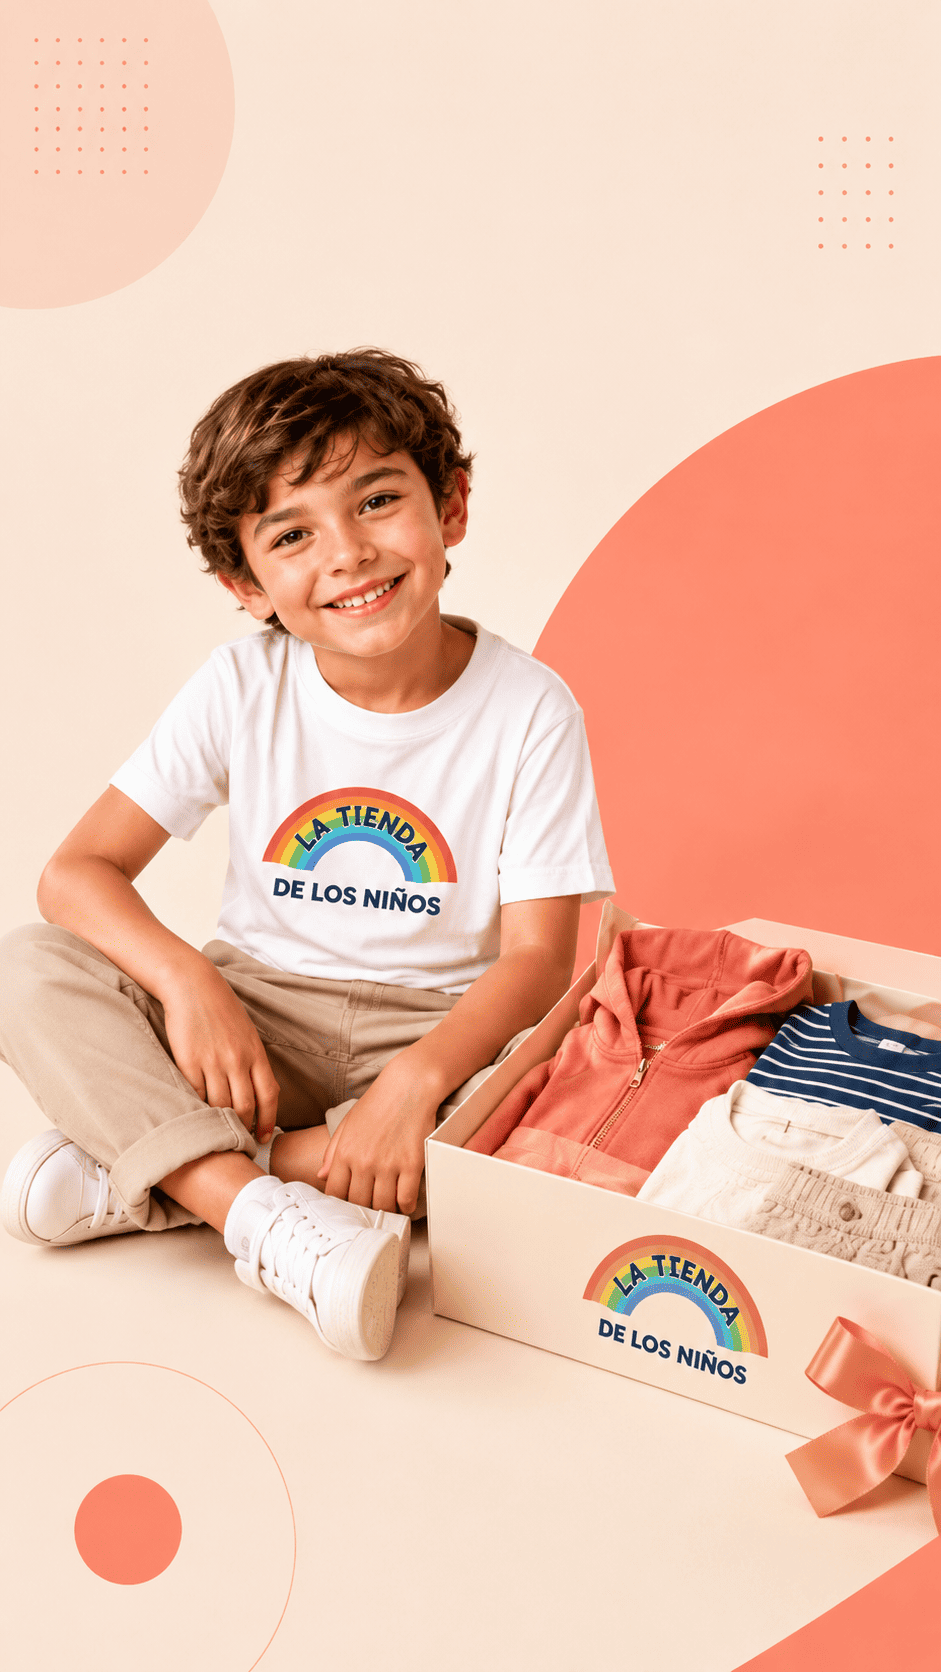
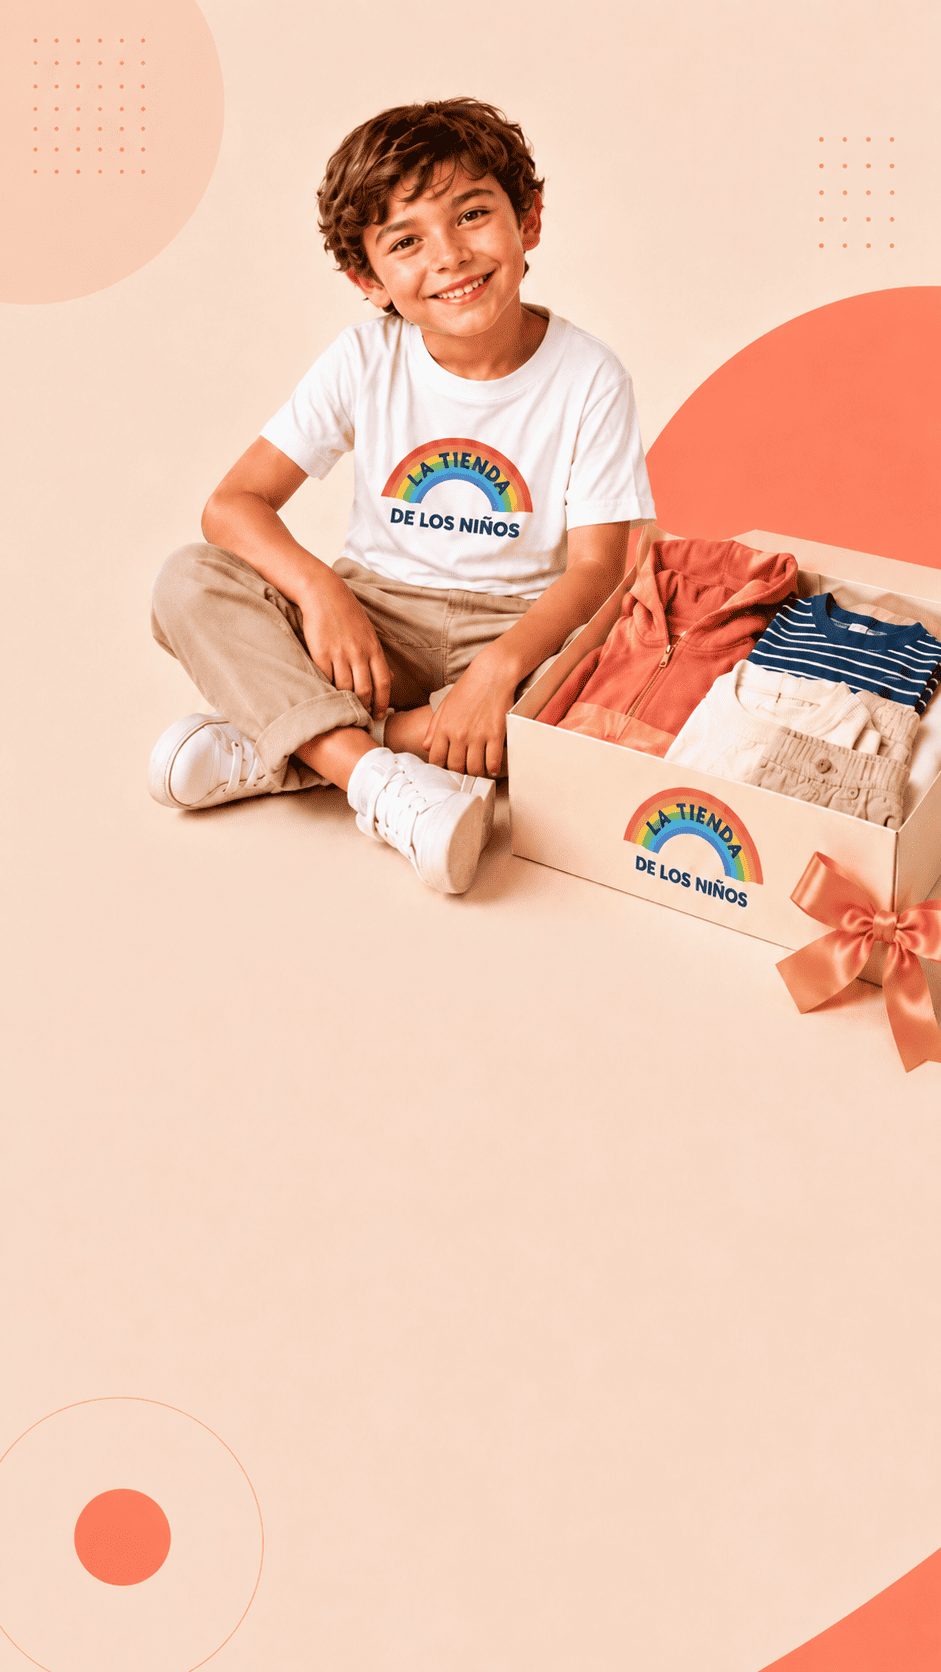
coherencia en imagenes hero mobile terminado cambio en textos

diff --git a/resources/js/Components/Storefront/PriceRangeSection.jsx b/resources/js/Components/Storefront/PriceRangeSection.jsx
@@ -1,10 +1,14 @@
 import { Link } from '@inertiajs/react';
 
 const ENTREPRENEUR_COMBO = {
-    label: 'Combos para emprendedores',
-    title: 'Pensado para emprendedores y revendedores',
-    sub: 'Una propuesta de mayor valor, con mejor presentacion y mas presencia para ofrecer en tu negocio.',
+    title: 'Pensando para que comiences',
+    body: [
+        '¿Sos emprendedor? ¿Revendes? Nosotros te ayudamos con combos listos para que puedas dar tus primeros pasos de forma simple.',
+        'Pensamos estos combos para que te animes a comenzar, con prendas seleccionadas especialmente para que puedas venderlas y obtener un buen margen de ganancia.',
+        'Si estás buscando una opción práctica, rentable y lista para empezar, este es el combo ideal para vos.',
+    ],
     href: '/catalogo?tipo=combos&precio_min=100000',
+    mobileImage: '/images/combo-emprendedor-mobile.png',
     image: '/images/combo-emprendedor.png',
 };
 
@@ -15,7 +19,7 @@ export default function PriceRangeSection() {
                 <div className="relative px-2 py-2 sm:px-3 lg:px-4">
 
                     <h2 className="home-section-title relative z-10 text-left">
-                        PENSADO PARA EMPRENDEDORES
+                        COMBOS PARA EMPRENDEDORES
                     </h2>
 
                     <div className="relative z-10 mt-8">
@@ -24,36 +28,41 @@ export default function PriceRangeSection() {
                             className="group flex w-full flex-col overflow-hidden transition duration-300 hover:-translate-y-1.5"
                         >
                             <div className="store-card relative min-h-[360px] overflow-hidden sm:min-h-[440px] lg:min-h-[520px]">
-                                <img
-                                    src={ENTREPRENEUR_COMBO.image}
-                                    alt={ENTREPRENEUR_COMBO.label}
-                                    className="absolute inset-0 h-full w-full object-cover object-center transition-transform duration-500 group-hover:scale-105"
-                                />
-                                <div className="absolute inset-0 bg-[linear-gradient(90deg,rgba(248,246,243,0.95),rgba(248,246,243,0.76)_42%,rgba(248,246,243,0.08))]" />
-                                <div className="absolute inset-0 bg-gradient-to-t from-brand-text/10 via-transparent to-white/10" />
+                                <picture>
+                                    <source media="(max-width: 639px)" srcSet={ENTREPRENEUR_COMBO.mobileImage} />
+                                    <img
+                                        src={ENTREPRENEUR_COMBO.image}
+                                        alt={ENTREPRENEUR_COMBO.title}
+                                        className="absolute inset-0 h-full w-full object-cover object-center transition-transform duration-500 group-hover:scale-105"
+                                    />
+                                </picture>
+                                <div className="absolute inset-0 bg-[linear-gradient(90deg,rgba(248,246,243,0.72),rgba(248,246,243,0.44)_42%,rgba(248,246,243,0.015))]" />
+                                <div className="absolute inset-0 bg-gradient-to-t from-brand-text/6 via-transparent to-white/3" />
 
                                 <div className="relative z-10 flex h-full max-w-2xl flex-col justify-center px-6 py-8 sm:px-8 lg:px-12">
-                                    <div className="flex h-14 w-14 items-center justify-center text-brand-cta">
-                                        <svg className="h-11 w-11" fill="none" viewBox="0 0 24 24" stroke="currentColor" aria-hidden="true">
-                                            <path strokeLinecap="round" strokeLinejoin="round" strokeWidth={1.8} d="M4 19h16M6 16V9m4 7V5m4 11v-8m4 8v-4" />
-                                            <path strokeLinecap="round" strokeLinejoin="round" strokeWidth={1.8} d="M7 7l3-3 3 2 4-3" />
-                                        </svg>
+                                    <div className="flex items-center gap-3 sm:flex-col sm:items-start sm:gap-0">
+                                        <div className="flex h-10 w-10 shrink-0 items-center justify-center text-brand-cta sm:h-14 sm:w-14">
+                                            <svg className="h-7 w-7 sm:h-11 sm:w-11" fill="none" viewBox="0 0 24 24" stroke="currentColor" aria-hidden="true">
+                                                <path strokeLinecap="round" strokeLinejoin="round" strokeWidth={1.8} d="M3 8.5L12 4l9 4.5M3 8.5l9 5m-9-5V16l9 4.5M12 13.5l9-5M12 13.5V20.5M21 8.5V16L12 20.5" />
+                                                <path strokeLinecap="round" strokeLinejoin="round" strokeWidth={1.8} d="M7.5 6.25L12 8.5l4.5-2.25" />
+                                            </svg>
+                                        </div>
+
+                                        <p className="home-section-title max-w-xl text-left sm:mt-5">
+                                            {ENTREPRENEUR_COMBO.title}
+                                        </p>
                                     </div>
 
-                                    <p className="mt-5 text-[11px] font-bold uppercase tracking-[0.24em] text-brand-cta">
-                                        {ENTREPRENEUR_COMBO.label}
-                                    </p>
-                                    <p className="mt-3 max-w-xl text-xl font-extrabold leading-tight text-brand-text sm:text-3xl lg:text-[2.45rem]">
-                                        {ENTREPRENEUR_COMBO.title}
-                                    </p>
-                                    <p className="mt-4 max-w-lg text-sm leading-relaxed text-brand-text-muted sm:text-base">
-                                        {ENTREPRENEUR_COMBO.sub}
-                                    </p>
+                                    <div className="mt-4 max-w-xl space-y-4 text-sm leading-relaxed text-brand-text-muted sm:text-base">
+                                        {ENTREPRENEUR_COMBO.body.map((paragraph) => (
+                                            <p key={paragraph}>{paragraph}</p>
+                                        ))}
+                                    </div>
 
-                                    <span className="mt-6 inline-flex items-center gap-1 text-xs font-semibold uppercase tracking-[0.14em] text-brand-cta">
+                                    <span className="home-button mt-6 inline-flex self-start items-center gap-2 bg-brand-cta px-4 py-3 text-sm font-bold uppercase tracking-[0.14em] text-white shadow-md transition-colors group-hover:bg-brand-cta-dark sm:px-5 sm:text-base">
                                         Ver catalogo
-                                        <svg className="h-3.5 w-3.5 transition-transform group-hover:translate-x-1" fill="none" viewBox="0 0 24 24" stroke="currentColor">
-                                            <path strokeLinecap="round" strokeLinejoin="round" strokeWidth={2} d="M5 12h14m0 0l-6-6m6 6l-6 6" />
+                                        <svg className="h-4 w-4 transition-transform group-hover:translate-x-0.5" fill="none" viewBox="0 0 24 24" stroke="currentColor" strokeWidth={2.5}>
+                                            <path strokeLinecap="round" strokeLinejoin="round" d="M5 12h14m0 0l-6-6m6 6l-6 6" />
                                         </svg>
                                     </span>
                                 </div>

diff --git a/resources/js/Components/Storefront/Hero.jsx b/resources/js/Components/Storefront/Hero.jsx
@@ -13,24 +13,28 @@ export default function Hero() {
                 <div className="absolute inset-0 bg-gradient-to-t from-brand-primary/28 via-brand-primary/10 via-[38%] to-white/8" />
 
                 <div className="absolute inset-x-0 bottom-0 z-10 px-4 pb-5">
-                    <div className="flex max-w-[320px] flex-col items-start text-left">
+                    <div className="flex max-w-[352px] flex-col items-start text-left">
                         <h1 className="font-extrabold leading-[0.9] drop-shadow-[0_3px_12px_rgba(0,0,0,0.28)]">
-                            <span className="block text-[3.65rem] text-brand-text">COMBOS</span>
-                            <span className="mt-1 block text-[3rem] text-brand-cta">
+                            <span className="block text-[4.1rem] text-brand-text">COMBOS</span>
+                            <span className="mt-1 block whitespace-nowrap text-[3.35rem] text-brand-cta">
                                 PARA ARMAR.
                             </span>
                         </h1>
 
-                        <div className="mt-5 flex flex-wrap gap-3">
+                        <p className="mt-3 max-w-[19rem] text-sm leading-relaxed text-brand-text-muted drop-shadow-[0_2px_10px_rgba(0,0,0,0.18)]">
+                            {'Elegí el combo diseñado para vos. Vos elegís las prendas, nosotros lo armamos.'}
+                        </p>
+
+                        <div className="mt-6 flex flex-wrap gap-3">
                             <a
                                 href="#combos"
-                                className="home-button inline-flex items-center justify-center bg-brand-cta px-6 py-3 text-xs font-bold uppercase tracking-wide text-white shadow-md transition-colors hover:bg-brand-cta-dark sm:px-7 sm:py-3.5 sm:text-sm lg:px-10 lg:py-5 lg:text-base xl:px-12 xl:py-6 xl:text-lg"
+                                className="home-button inline-flex items-center justify-center bg-brand-cta px-7 py-3.5 text-sm font-bold uppercase tracking-wide text-white shadow-md transition-colors hover:bg-brand-cta-dark sm:px-8 sm:py-4 sm:text-base lg:px-10 lg:py-5 lg:text-base xl:px-12 xl:py-6 xl:text-lg"
                             >
                                 Ver combos
                             </a>
                             <a
                                 href="/catalogo"
-                                className="home-button inline-flex items-center justify-center border border-brand-cta bg-white px-6 py-3 text-xs font-bold uppercase tracking-wide text-brand-cta shadow-sm transition-colors hover:bg-brand-primary-surface sm:px-7 sm:py-3.5 sm:text-sm lg:px-10 lg:py-5 lg:text-base xl:px-12 xl:py-6 xl:text-lg"
+                                className="home-button inline-flex items-center justify-center border border-brand-cta bg-white px-7 py-3.5 text-sm font-bold uppercase tracking-wide text-brand-cta shadow-sm transition-colors hover:bg-brand-primary-surface sm:px-8 sm:py-4 sm:text-base lg:px-10 lg:py-5 lg:text-base xl:px-12 xl:py-6 xl:text-lg"
                             >
                                 Catalogo completo
                             </a>
@@ -55,8 +59,8 @@ export default function Hero() {
                     <div className="grid min-h-0 flex-1 grid-cols-1 gap-5 lg:grid-cols-[minmax(0,1.1fr)_minmax(220px,0.9fr)] lg:items-start">
                         <div className="relative hidden max-w-xl self-start pt-0 md:block md:pt-2 lg:max-w-3xl lg:pt-4 xl:max-w-4xl xl:pt-6">
                             <h1 className="font-extrabold leading-[0.9] text-brand-text">
-                                <span className="block text-[3.65rem] sm:text-7xl lg:text-[7rem] xl:text-[8.5rem]">COMBOS</span>
-                                <span className="mt-1.5 block text-[3rem] text-brand-cta sm:text-6xl lg:text-[6.2rem] xl:text-[7.5rem]">
+                                <span className="block text-[4rem] sm:text-[5rem] lg:text-[7.6rem] xl:text-[9.1rem]">COMBOS</span>
+                                <span className="mt-1.5 block text-[3.2rem] text-brand-cta sm:text-[4.2rem] lg:text-[6.7rem] xl:text-[8rem]">
                                     PARA ARMAR.
                                 </span>
                             </h1>
@@ -70,13 +74,13 @@ export default function Hero() {
                             <div className="mt-6 flex flex-wrap gap-3 sm:mt-5 sm:gap-3.5 lg:mt-6">
                                 <a
                                     href="#combos"
-                                    className="home-button inline-flex items-center justify-center bg-brand-cta px-6 py-3 text-xs font-bold uppercase tracking-wide text-white shadow-md transition-colors hover:bg-brand-cta-dark sm:px-7 sm:py-3.5 sm:text-sm lg:px-10 lg:py-5 lg:text-base xl:px-12 xl:py-6 xl:text-lg"
+                                    className="home-button inline-flex items-center justify-center bg-brand-cta px-7 py-3.5 text-sm font-bold uppercase tracking-wide text-white shadow-md transition-colors hover:bg-brand-cta-dark sm:px-8 sm:py-4 sm:text-base lg:px-11 lg:py-[1.35rem] lg:text-lg xl:px-[3.25rem] xl:py-[1.65rem] xl:text-xl"
                                 >
                                     Ver combos
                                 </a>
                                 <a
                                     href="/catalogo"
-                                    className="home-button inline-flex items-center justify-center border border-brand-cta bg-white px-6 py-3 text-xs font-bold uppercase tracking-wide text-brand-cta shadow-sm transition-colors hover:bg-brand-primary-surface sm:px-7 sm:py-3.5 sm:text-sm lg:px-10 lg:py-5 lg:text-base xl:px-12 xl:py-6 xl:text-lg"
+                                    className="home-button inline-flex items-center justify-center border border-brand-cta bg-white px-7 py-3.5 text-sm font-bold uppercase tracking-wide text-brand-cta shadow-sm transition-colors hover:bg-brand-primary-surface sm:px-8 sm:py-4 sm:text-base lg:px-11 lg:py-[1.35rem] lg:text-lg xl:px-[3.25rem] xl:py-[1.65rem] xl:text-xl"
                                 >
                                     Catalogo completo
                                 </a>

diff --git a/resources/js/Components/Storefront/CategoryShortcuts.jsx b/resources/js/Components/Storefront/CategoryShortcuts.jsx
@@ -54,12 +54,15 @@ export default function CategoryShortcuts() {
                         </div>
                     </div>
 
-                    <aside className="home-panel relative min-h-[260px] overflow-hidden border border-brand-secondary/45 shadow-[0_20px_44px_rgba(31,31,31,0.08)] lg:min-h-[320px]">
+                    <a
+                        href="#about"
+                        className="home-panel group relative block min-h-[260px] overflow-hidden border border-brand-secondary/45 shadow-[0_20px_44px_rgba(31,31,31,0.08)] transition duration-300 hover:-translate-y-1.5 lg:min-h-[320px]"
+                    >
                         <img
                             src="/images/banner-filtros.png"
                             alt=""
                             aria-hidden="true"
-                            className="absolute inset-0 h-full w-full object-cover object-center"
+                            className="absolute inset-0 h-full w-full object-cover object-center transition-transform duration-500 group-hover:scale-105"
                         />
                         <div className="absolute inset-0 bg-gradient-to-r from-brand-primary/88 via-brand-primary/70 to-brand-primary/28" />
                         <div className="absolute inset-0 bg-gradient-to-t from-black/18 via-transparent to-white/8" />
@@ -72,18 +75,15 @@ export default function CategoryShortcuts() {
                                 <p className="mt-3 text-sm leading-relaxed text-brand-text/80">
                                     {'Prendas pensadas para acompa\u00f1ar cada aventura de todos los d\u00edas.'}
                                 </p>
-                                <a
-                                    href="#about"
-                                    className="home-button mt-5 inline-flex items-center gap-1.5 bg-brand-cta px-4 py-2 text-xs font-bold uppercase tracking-[0.14em] transition-colors hover:bg-brand-cta-dark"
-                                >
+                                <span className="home-button mt-5 inline-flex self-start items-center gap-2 bg-brand-cta px-4 py-3 text-sm font-bold uppercase tracking-[0.14em] text-white shadow-md transition-colors group-hover:bg-brand-cta-dark sm:px-5 sm:text-base">
                                     {'Conoc\u00e9 m\u00e1s'}
-                                    <svg className="h-3.5 w-3.5" fill="none" viewBox="0 0 24 24" stroke="currentColor">
-                                        <path strokeLinecap="round" strokeLinejoin="round" strokeWidth={2} d="M5 12h14m0 0l-6-6m6 6l-6 6" />
+                                    <svg className="h-4 w-4" fill="none" viewBox="0 0 24 24" stroke="currentColor" strokeWidth={2.5}>
+                                        <path strokeLinecap="round" strokeLinejoin="round" d="M5 12h14m0 0l-6-6m6 6l-6 6" />
                                     </svg>
-                                </a>
+                                </span>
                             </div>
                         </div>
-                    </aside>
+                    </a>
                 </div>
             </div>
         </section>

diff --git a/resources/js/Components/Storefront/FeaturedCombos.jsx b/resources/js/Components/Storefront/FeaturedCombos.jsx
@@ -76,7 +76,7 @@ export default function FeaturedCombos({ combos }) {
                                 type="button"
                                 onClick={() => scroll(-1)}
                                 aria-label="Anterior"
-                                className="home-button flex h-11 w-11 items-center justify-center border border-white/70 bg-white/80 text-brand-text backdrop-blur-sm transition hover:text-brand-primary"
+                                className="home-button flex h-11 w-11 items-center justify-center border border-brand-cta bg-white text-brand-cta transition-colors hover:bg-brand-cta hover:text-white"
                             >
                                 <svg className="h-5 w-5" fill="none" viewBox="0 0 24 24" stroke="currentColor">
                                     <path strokeLinecap="round" strokeLinejoin="round" strokeWidth={2} d="M15 19l-7-7 7-7" />
@@ -86,7 +86,7 @@ export default function FeaturedCombos({ combos }) {
                                 type="button"
                                 onClick={() => scroll(1)}
                                 aria-label="Siguiente"
-                                className="home-button flex h-11 w-11 items-center justify-center border border-white/70 bg-white/80 text-brand-text backdrop-blur-sm transition hover:text-brand-primary"
+                                className="home-button flex h-11 w-11 items-center justify-center border border-brand-cta bg-white text-brand-cta transition-colors hover:bg-brand-cta hover:text-white"
                             >
                                 <svg className="h-5 w-5" fill="none" viewBox="0 0 24 24" stroke="currentColor">
                                     <path strokeLinecap="round" strokeLinejoin="round" strokeWidth={2} d="M9 5l7 7-7 7" />
